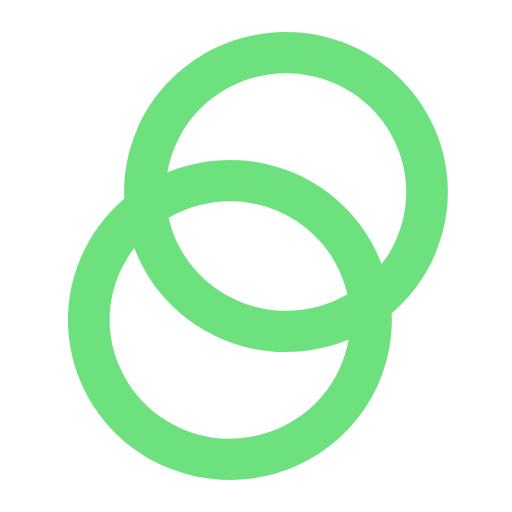
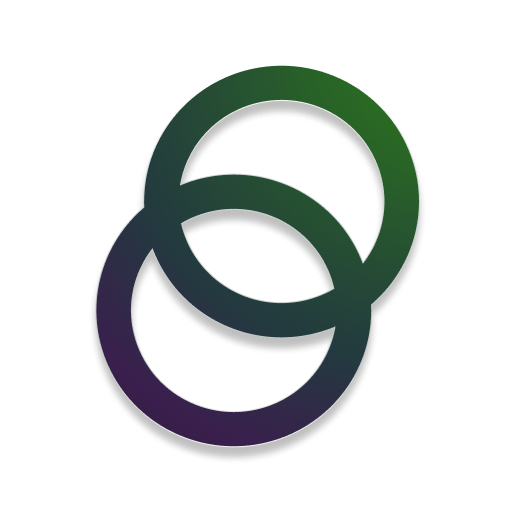
jaka/fix/issues-01 (#7)
* styling, favicon, ham menu fix, theme flick

* ignore any in ref

diff --git a/src/app/components/Footer/Footer.tsx b/src/app/components/Footer/Footer.tsx
@@ -48,7 +48,11 @@ const Footer = () => {
                 {t('learn')}
               </TextElement>
               {learnMenu.map((item) => (
-                <Link href={item.href} key={item.title}>
+                <Link
+                  href={item.href}
+                  key={item.title}
+                  target={item.isExternal ? '_blank' : ''}
+                >
                   <TextElement type={'label-sm'}>{item.title}</TextElement>
                 </Link>
               ))}
@@ -58,7 +62,11 @@ const Footer = () => {
                 {t('resources')}
               </TextElement>
               {resourcesMenu.map((item) => (
-                <Link href={item.href} key={item.title}>
+                <Link
+                  href={item.href}
+                  key={item.title}
+                  target={item.isExternal ? '_blank' : ''}
+                >
                   <TextElement type={'label-sm'}>{item.title}</TextElement>
                 </Link>
               ))}
@@ -68,7 +76,11 @@ const Footer = () => {
                 {t('getInvolved')}
               </TextElement>
               {getInvolvedMenu.map((item) => (
-                <Link href={item.href} key={item.title}>
+                <Link
+                  href={item.href}
+                  key={item.title}
+                  target={item.isExternal ? '_blank' : ''}
+                >
                   <TextElement type={'label-sm'}>{item.title}</TextElement>
                 </Link>
               ))}

diff --git a/src/app/layout.tsx b/src/app/layout.tsx
@@ -7,6 +7,7 @@ import { getLocale, getMessages } from 'next-intl/server';
 import { NextIntlClientProvider } from 'next-intl';
 import { Inter, Space_Grotesk } from 'next/font/google';
 import CookiesBanner from '@components/CookiesBanner/CookiesBanner';
+import ScrollToTop from '@components/ScrollToTop/ScrollToTop';
 
 const spaceGrotesk = Space_Grotesk({
   subsets: ['latin'],
@@ -27,12 +28,12 @@ export default async function RootLayout({
   const messages = await getMessages();
 
   return (
-    <ThemeProvider>
-      <html
-        lang={locale}
-        className={Cookies.get('themeMode')}
-        suppressHydrationWarning={true}
-      >
+    <html
+      lang={locale}
+      className={Cookies.get('themeMode') || 'dark'}
+      suppressHydrationWarning={true}
+    >
+      <ThemeProvider>
         <NextIntlClientProvider messages={messages}>
           <body
             className={`${spaceGrotesk.className} ${inter.className} bodyLayout`}
@@ -40,10 +41,11 @@ export default async function RootLayout({
             <Navbar />
             {children}
             <Footer />
+            <ScrollToTop />
             <CookiesBanner />
           </body>
         </NextIntlClientProvider>
-      </html>
-    </ThemeProvider>
+      </ThemeProvider>
+    </html>
   );
 }

diff --git a/src/app/components/HamburgerMenu/HamburgerMenu.tsx b/src/app/components/HamburgerMenu/HamburgerMenu.tsx
@@ -6,10 +6,17 @@ import classNames from 'classnames';
 import Link from 'next/link';
 import { linksData } from '@components/Navbar/Navbar';
 import ThemeSwitcher from '@components/ThemeSwitcher/ThemeSwitcher';
+import { useClickAway } from '@uidotdev/usehooks';
 
 const HamburgerMenu = () => {
   const [isOpen, setIsOpen] = useState(false);
   const [shouldHide, setShouldHide] = useState(false);
+
+  // eslint-disable-next-line  @typescript-eslint/no-explicit-any
+  const ref: any = useClickAway(() => {
+    setShouldHide(false);
+    setIsOpen(false);
+  });
 
   const toggleMenu = () => {
     setShouldHide(false);
@@ -25,7 +32,7 @@ const HamburgerMenu = () => {
   }, [isOpen]);
 
   return (
-    <section className={classes.hamburgerMenu}>
+    <section className={classes.hamburgerMenu} ref={ref}>
       <button className={classes.hamburgerIcon} onClick={toggleMenu}>
         <span className={classNames({ [classes.open]: isOpen })}></span>
         <span className={classNames({ [classes.open]: isOpen })}></span>
@@ -42,7 +49,7 @@ const HamburgerMenu = () => {
             {link.label}
           </Link>
         ))}
-        <ThemeSwitcher />
+        <ThemeSwitcher toggleMenu={toggleMenu} />
       </div>
     </section>
   );

diff --git a/src/app/containers/Founders/Founders.tsx b/src/app/containers/Founders/Founders.tsx
@@ -30,7 +30,7 @@ const Founders = () => {
         />
         <div className={classes.cardsContainer}>
           <InteractionCard
-            href={'as'}
+            href={t('markoLinkedin')}
             isExternal
             icon={<MyIcon name={'LinkedIn'} width={40} height={40} />}
             title={t('marko')}
@@ -38,7 +38,7 @@ const Founders = () => {
             titleClassName={classes.cardTitle}
           />
           <InteractionCard
-            href={'as'}
+            href={t('chrisLinkedin')}
             isExternal
             icon={<MyIcon name={'LinkedIn'} width={40} height={40} />}
             title={t('chris')}
@@ -46,7 +46,7 @@ const Founders = () => {
             titleClassName={classes.cardTitle}
           />
           <InteractionCard
-            href={'as'}
+            href={t('damirLinkedin')}
             isExternal
             icon={<MyIcon name={'LinkedIn'} width={40} height={40} />}
             title={t('damir')}

diff --git a/src/app/components/ScrollToTop/ScrollToTop.tsx b/src/app/components/ScrollToTop/ScrollToTop.tsx
@@ -1,0 +1,36 @@
+'use client';
+
+import React, { useEffect, useState } from 'react';
+import MyIcon from '@components/MyIcon/MyIcon';
+import classNames from 'classnames';
+import classes from './ScrollToTop.module.scss';
+
+const ScrollToTop = () => {
+  const [isVisible, setIsVisible] = useState(false);
+
+  useEffect(() => {
+    const toggleVisibility = () => {
+      setIsVisible(window.scrollY > 300);
+    };
+
+    window.addEventListener('scroll', toggleVisibility);
+    return () => window.removeEventListener('scroll', toggleVisibility);
+  }, []);
+
+  const scrollToTopHandler = () => {
+    window.scrollTo({ top: 0, behavior: 'smooth' });
+  };
+
+  return (
+    <div
+      onClick={scrollToTopHandler}
+      className={classNames(classes.scrollToTop, {
+        [classes.visible]: isVisible,
+      })}
+    >
+      <MyIcon name={'NorthRounded'} />
+    </div>
+  );
+};
+
+export default ScrollToTop;

diff --git a/src/app/components/ThemeSwitcher/ThemeSwitcher.tsx b/src/app/components/ThemeSwitcher/ThemeSwitcher.tsx
@@ -5,7 +5,11 @@ import { useTheme } from '@/app/providers/ThemeProvider/ThemeProvider';
 import { useEffect, useState } from 'react';
 import MyIcon from '@components/MyIcon/MyIcon';
 
-const ThemeSwitcher = () => {
+interface ThemeSwitcherProps {
+  toggleMenu?: () => void;
+}
+
+const ThemeSwitcher = ({ toggleMenu }: ThemeSwitcherProps) => {
   const { themeMode, setThemeMode } = useTheme();
   const [isMounted, setIsMounted] = useState(false);
 
@@ -14,8 +18,8 @@ const ThemeSwitcher = () => {
   }, []);
 
   const clickHandler = () => {
-    document.body.classList.add('body-slide');
     setThemeMode(themeMode === 'light' ? 'dark' : 'light');
+    toggleMenu?.();
   };
 
   if (!isMounted) {

diff --git a/src/app/containers/EcosystemSection/EcosystemSection.tsx b/src/app/containers/EcosystemSection/EcosystemSection.tsx
@@ -15,7 +15,7 @@ import CharacteristicsLayout, {
   SingleData,
 } from '@components/CharacteristicsLayout/CharacteristicsLayout';
 import classNames from 'classnames';
-import { Routes, spixiWebsite } from '@utils/constants';
+import { Routes, Section, spixiWebsite } from '@utils/constants';
 
 const st = await getServerTranslations();
 
@@ -81,6 +81,7 @@ const EcosystemSection = () => {
               {t('exploreEco')}
             </Button>
             <Button
+              href={`${Routes.TECHNOLOGY}#${Section.IXI_TOKEN}`}
               variant={'text'}
               leadingIcon={<MyIcon name={'EastRounded'} />}
             >

diff --git a/src/app/utils/menuUtils.ts b/src/app/utils/menuUtils.ts
@@ -3,6 +3,7 @@ import { ixidocs, ixiscope, Routes, Section } from '@utils/constants';
 export interface IMenu {
   title: string;
   href: string;
+  isExternal?: boolean;
 }
 
 export const learnMenu: IMenu[] = [
@@ -32,10 +33,12 @@ export const resourcesMenu: IMenu[] = [
   {
     title: 'Docs',
     href: ixidocs,
+    isExternal: true,
   },
   {
-    title: 'White Paper',
+    title: 'Whitepaper',
     href: ixidocs,
+    isExternal: true,
   },
   {
     title: 'Downloads',
@@ -44,6 +47,7 @@ export const resourcesMenu: IMenu[] = [
   {
     title: 'ixiscope',
     href: ixiscope,
+    isExternal: true,
   },
 ];
 

diff --git a/src/app/components/LoadingSpinner/LoadingSpinner.module.scss b/src/app/components/LoadingSpinner/LoadingSpinner.module.scss
@@ -1,0 +1,26 @@
+.loadingSection {
+  width: 100%;
+  height: 100%;
+  display: flex;
+  align-items: center;
+  justify-content: center;
+  background: #0a0f0c;
+}
+
+.loadingSpinner {
+  border: 4px solid #fbfcfb; /* Light grey background */
+  border-top: 4px solid #a7f6ad; /* Blue color for the spinner */
+  border-radius: 50%;
+  width: 50px;
+  height: 50px;
+  animation: spin 1s linear infinite;
+}
+
+@keyframes spin {
+  0% {
+    transform: rotate(0deg); /* Start at 0 degrees */
+  }
+  100% {
+    transform: rotate(360deg); /* Rotate to 360 degrees */
+  }
+}

diff --git a/src/app/utils/constants.ts b/src/app/utils/constants.ts
@@ -36,7 +36,7 @@ export const startS2 = 'https://github.com/ProjectIxian/Ixian-S2/releases/';
 export const ixiEmissions = 'https://explorer.ixian.io/?p=emissions';
 export const spixiDownload = 'https://www.spixi.io/download';
 export const ixianLinkedIn = 'https://www.linkedin.com/company/ixian-platform';
-export const ixiLabs = 'www.ixilabs.com';
+export const ixiLabs = 'https://www.ixilabs.com/';
 export const robotinaLink = 'https://www.robotina.si';
 export const vivatLink = 'https://www.vivatgroup.net/';
 export const benchmarkedLink = 'https://benchmarked.co/';

diff --git a/src/app/components/InteractionCard/InteractionCard.module.scss b/src/app/components/InteractionCard/InteractionCard.module.scss
@@ -99,6 +99,25 @@
     background-size: cover;
     background-position: center;
 
+    @include mq('sm') {
+      background-size: 110%;
+      &.access {
+        background-image: url('/assets/access.svg');
+      }
+
+      &.dapps {
+        background-image: url('/assets/dapps.svg');
+      }
+
+      &.enterprise {
+        background-image: url('/assets/enterprise.svg');
+      }
+
+      &.iot {
+        background-image: url('/assets/iot.svg');
+      }
+    }
+
     &:hover {
       .content {
         transform: translateY(50%);

diff --git a/src/app/manifest.ts b/src/app/manifest.ts
@@ -6,7 +6,8 @@ export default function manifest(): MetadataRoute.Manifest {
   return {
     name: 'Ixian',
     short_name: 'Ixian',
-    description: 'Distributed technology for the people',
+    description:
+      'Ixian is an open-source decentralized data streaming platform designed for seamless, secure, and scalable connectivity. Reduce costs, enhance security, and effortlessly integrate with IoT, smart cities, and real-time applications.',
     start_url: '/',
     display: 'standalone',
     background_color: '#fff',
